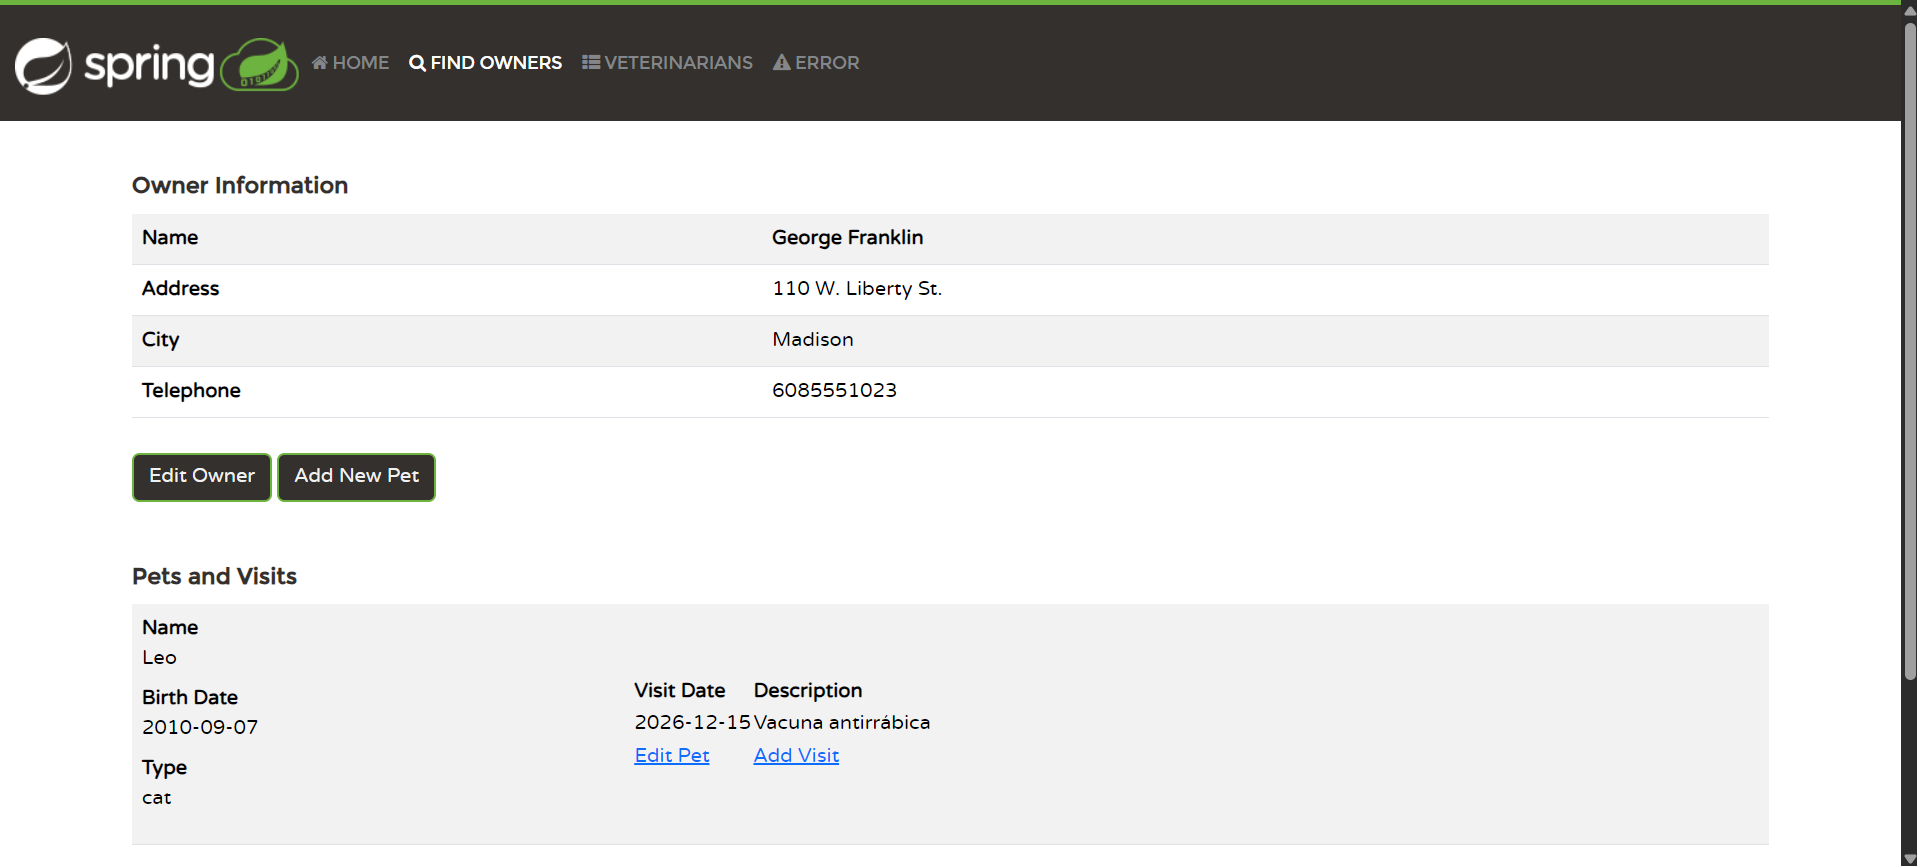
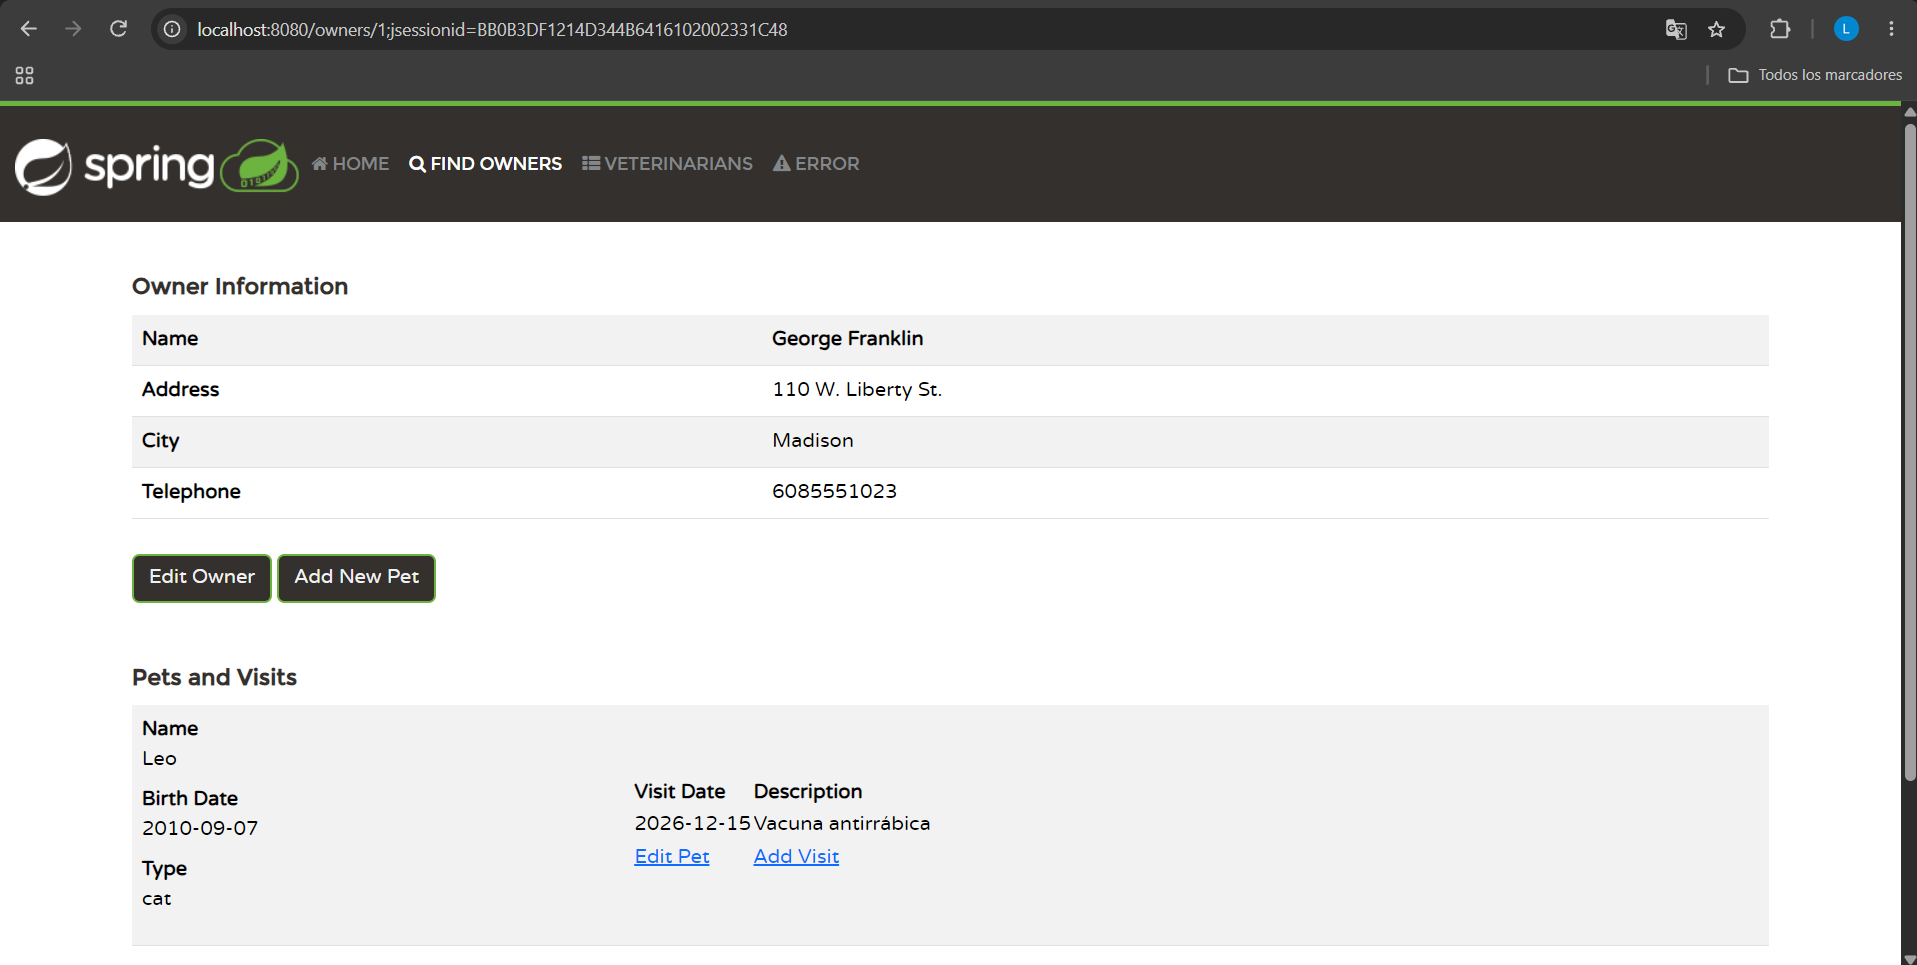
commit

diff --git a/semana-01/entorno.md b/semana-01/entorno.md
@@ -91,11 +91,9 @@ Servidor en `http://localhost:8080`. Uso como recepcionista de la clínica:
   "Vacuna antirrábica"; la visita aparece luego en la ficha.
 - Lista de veterinarios: `http://localhost:8080/vets.html`.
 
-Captura: `capturas/p6-owner.png` — ficha de George Franklin con la visita del `2026-12-15`.
+Captura: `capturas/p6-owner.png` — ficha de George Franklin con la visita del `2026-12-15`
+y la barra de direcciones visible (`localhost:8080/owners/1`).
 Respuesta HTML cruda del servidor para esa pantalla: `capturas/owners-1-response.html` (HTTP 200).
-
-> Nota: la `p6-owner.png` muestra la página pero no la barra de direcciones del navegador.
-> Si el profe lo exige literal, recapturar incluyendo la barra con `http://localhost:8080/owners/1`.
 
 ---
 
